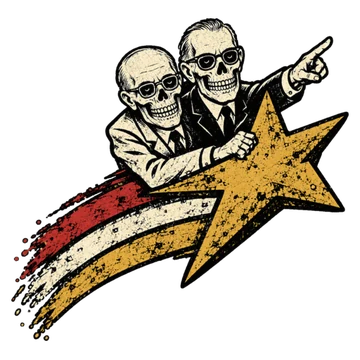
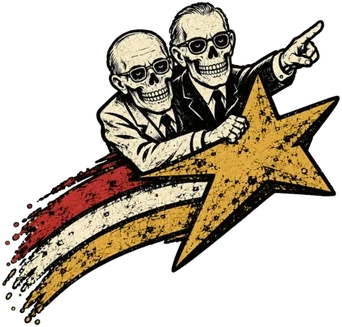
Recovery Basics: pin Bill and Bob over the corner, drop the red chip

diff --git a/index.html b/index.html
@@ -740,17 +740,12 @@ body::after{
 .rm-basic .topline{
   position:relative;z-index:1;
   display:flex;align-items:center;gap:6px;
-  padding:2px 6px 2px 11px;
+  padding:2px 6px 2px 48px;
 }
 .rm-basic .kicker{
   display:inline-flex;align-items:center;gap:6px;flex:0 0 auto;
   font-family:var(--b-display);font-weight:400;font-size:10.5px;line-height:1;
   letter-spacing:.6px;text-transform:uppercase;color:var(--b-cream);
-}
-/* The red mark, cut from the artwork -- speckled, not a red square. */
-.rm-basic .kicker::before{
-  content:"";width:11px;height:11px;flex:0 0 11px;
-  background:url("assets/basics/redmark.webp") center/contain no-repeat;
 }
 .rm-basic .topline .hr{
   flex:1 1 auto;height:1px;min-width:10px;
@@ -787,17 +782,26 @@ body::after{
 /* ---- mascot and copy ---- */
 .rm-basic .body{
   position:relative;z-index:1;
-  display:block;padding:2px 8px 2px 72px;
+  display:block;padding:2px 8px 2px 52px;
 }
-/* THE MASCOT IS TAKEN OUT OF THE FLOW. In a grid column it was the tallest
-   thing in the card and it set the height of the whole row -- 54px of art
-   holding open a row that only needed 35px of words. Lifted out, it hangs
-   across the footer rule exactly the way the comet tail does on the plate,
-   and the card is a third shorter for it. */
+/* THE MASCOT IS PINNED OVER THE TOP-LEFT CORNER, the same trick the coin
+   plays on the sober rail: it sits in front of the frame rather than inside
+   it, so the plate reads as something a badge was stuck onto.
+
+   IT IS ALSO OUT OF THE FLOW, which is what keeps the card short. In a grid
+   column it was the tallest thing here and set the height of the whole row
+   -- 54px of art holding open a row that only needed 35px of words.
+
+   It covers the top-left screw, and that is fine: a badge pinned over a
+   corner covers what is under it. The other three still show. */
+/* OFFSETS ARE MEASURED FROM THE PADDING BOX, not the outside of the card --
+   left:-10 with a 6px border only cleared the edge by four pixels, which
+   looked like the badge had slipped rather than been pinned over the corner.
+   These hang it about fourteen past the frame on both sides. */
 .rm-basic .mark{
-  position:absolute;z-index:1;left:6px;top:19px;
-  width:58px;height:auto;object-fit:contain;
-  filter:drop-shadow(2px 3px 0 rgba(0,0,0,.6));
+  position:absolute;z-index:5;left:-21px;top:-23px;
+  width:67px;height:auto;object-fit:contain;
+  filter:drop-shadow(2px 3px 2px rgba(0,0,0,.75));
   pointer-events:none;
 }
 .rm-basic .copy{min-width:0}
@@ -821,7 +825,7 @@ body::after{
 .rm-basic .foot{
   position:relative;z-index:1;
   display:grid;grid-template-columns:minmax(0,1fr) auto;align-items:center;
-  gap:0 8px;padding:0 2px 1px 72px;
+  gap:0 8px;padding:0 2px 1px 11px;
 }
 /* The stamped line is in the plate's own condensed face, not the UI one. In
    the UI face it ran half again as long as the artwork's. */
@@ -832,7 +836,7 @@ body::after{
   line-height:1.15;
 }
 .rm-basic .foot .hr{
-  display:block;height:1px;margin:0 0 3px -68px;
+  display:block;height:1px;margin:0 0 3px -7px;
   background:linear-gradient(90deg,rgba(238,228,206,.5),rgba(238,228,206,.58) 62%,rgba(238,228,206,.07));
 }
 /* THE BUTTON IS THE ARTWORK'S OWN SIGN PANEL. Its words are printed on it,
@@ -865,20 +869,18 @@ body::after{
 /* Wider than a phone it stays a plate, not a feature card. */
 @media (min-width:430px){
   .rm-basic{border-width:9px 8px 8px 7px}
-  .rm-basic .body{padding-left:80px}
-  .rm-basic .foot{padding-left:80px}
-  .rm-basic .foot .hr{margin-left:-76px}
-  .rm-basic .mark{width:66px;top:21px}
+  .rm-basic .body{padding-left:60px}
+  .rm-basic .topline{padding-left:56px}
+  .rm-basic .mark{width:76px;left:-24px;top:-26px}
   .rm-basic .kicker,.rm-basic .count{font-size:11.5px}
   .rm-basic .d{font-size:11.5px}
   .rm-basic .again{width:94px;height:24px}
 }
 @media (max-width:359px){
   .rm-basic{border-width:7px 6px 6px 5px}
-  .rm-basic .body{padding-left:60px}
-  .rm-basic .foot{padding-left:60px}
-  .rm-basic .foot .hr{margin-left:-56px}
-  .rm-basic .mark{width:50px;left:5px;top:16px}
+  .rm-basic .body{padding-left:45px}
+  .rm-basic .topline{padding-left:42px}
+  .rm-basic .mark{width:58px;left:-18px;top:-20px}
   .rm-basic .kicker,.rm-basic .count{font-size:9.5px;letter-spacing:.3px}
   .rm-basic .t{font-size:clamp(14px,4.9vw,17px)}
   .rm-basic .d{font-size:9.5px}
@@ -1281,7 +1283,7 @@ body::after{
 
     <div class="body">
       <img class="mark" src="assets/basics/basics-mark.webp" alt="" aria-hidden="true"
-           width="360" height="360">
+           width="342" height="327">
       <div class="copy">
         <h2 class="t" id="basicTitle" data-basic-title>&nbsp;</h2>
         <p class="d" data-basic-body>&nbsp;</p>
